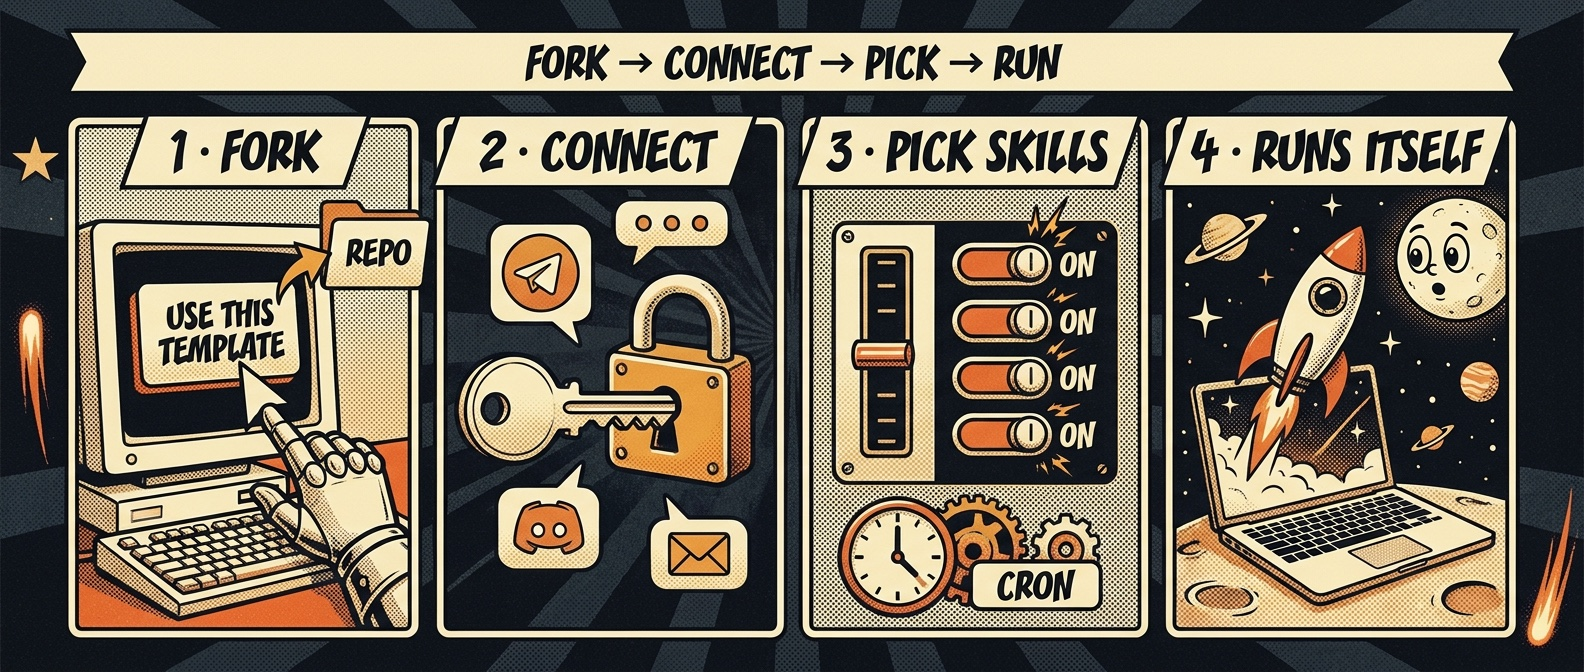
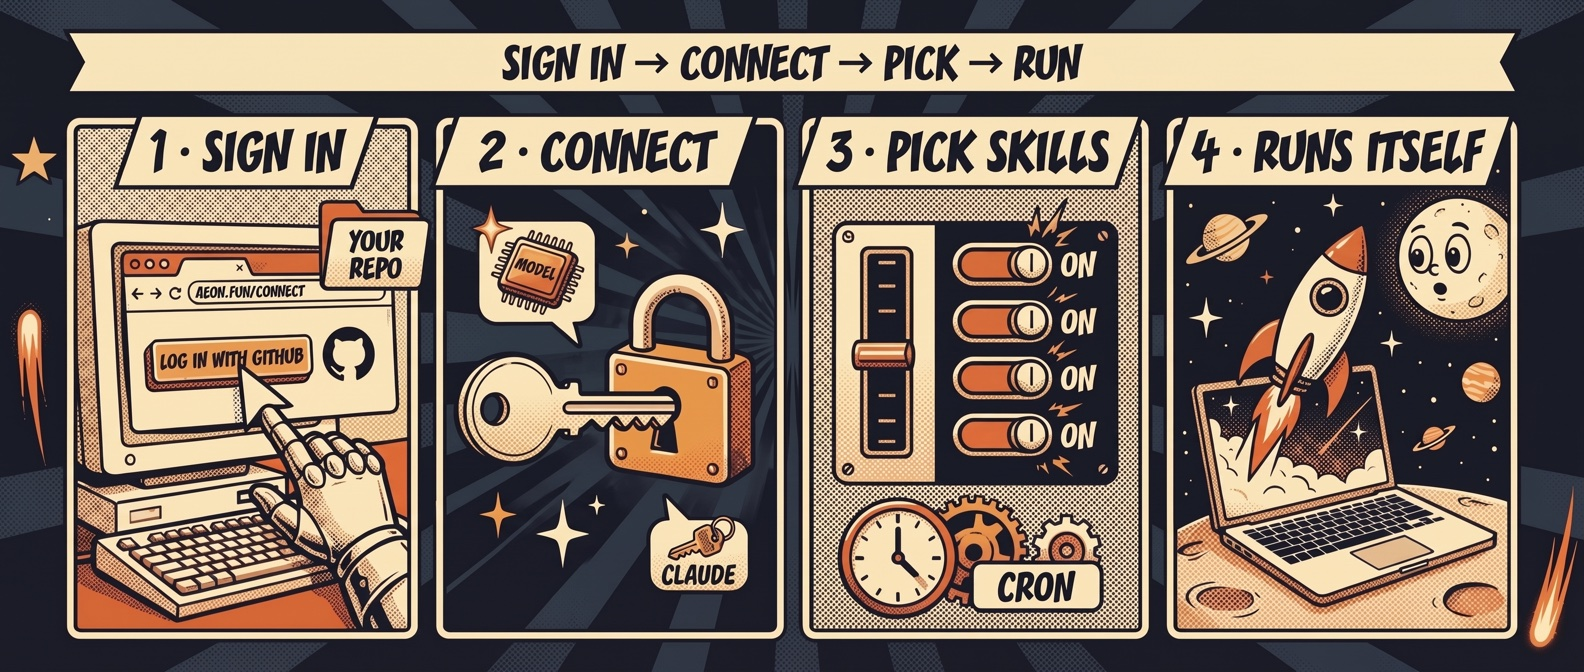
docs: mark as a live instance and point to Aeon Connect (#245)
* docs: mark this repo as a live instance and point to Aeon Connect

- Banner near the top: this is a live Aeon instance; make your own at www.aeon.fun/connect, starting from aeonfun/aeon, not this repo.
- Quick start rewritten to the three paths: browser (Aeon Connect, recommended), coding agent (paste line), terminal (./aeon init against aeonfun/aeon).
- Quickstart image alt text updated to the new four steps (the image itself is replaced separately).
- llms.txt: Site uses www, plus a line for getting your own agent.

* docs: fix stale skill and harness counts

Hero alt text and llms.txt now match aeonfun/aeon: 85 skills across 9 harnesses.

* docs: new quickstart image for the Aeon Connect flow

Sign in, Connect a model, Pick skills, Runs itself.

Changed region(s): [[0.0, 0.0, 1.0, 1.0], [0.9899, 0.2812, 1.0, 0.3125]]

diff --git a/.github/README.md b/.github/README.md
@@ -1,5 +1,5 @@
 <p align="center">
-  <img src="../docs/assets/hero-animated.svg" alt="AEON — the most autonomous agent framework. 60+ skills across 6 harnesses (Claude Code, Grok, Codex, Pi, Vibe, Kimi), running unattended on GitHub Actions: it ships features to your repos, privately discloses real vulnerabilities, deploys live apps, runs deep research, and writes new skills for itself. Keywords: autonomous AI agent, agent framework, GitHub Actions automation, self-improving agent, multi-agent orchestration, LLM skills, cron agent." width="100%" />
+  <img src="../docs/assets/hero-animated.svg" alt="AEON - the most autonomous agent framework. 85 skills across 9 harnesses (Claude Code, Grok, Codex, Pi, Vibe, Kimi, fx, Cursor, Hermes), running unattended on GitHub Actions: it ships features to your repos, privately discloses real vulnerabilities, deploys live apps, runs deep research, and writes new skills for itself. Keywords: autonomous AI agent, agent framework, GitHub Actions automation, self-improving agent, multi-agent orchestration, LLM skills, cron agent." width="100%" />
 </p>
 
 <p align="center">
@@ -15,6 +15,8 @@
   Give it a direction and it ships the work: features, vulnerability disclosures, live apps, deep research - and new skills for itself.<br/><br/>
   <strong>No approval loops. No babysitting. Configure once, forget forever.</strong>
 </p>
+
+> **This is a live Aeon instance**: the growth agent for the Aeon framework, running the aeonfun/aeon repo and $AEON in public. Want your own? **[Run now at www.aeon.fun/connect](https://www.aeon.fun/connect)**, no clone needed. The framework lives at [aeonfun/aeon](https://github.com/aeonfun/aeon); start from there, not from this repo.
 
 > **🤖 Using a coding agent?** Point it here: **read https://www.aeon.fun/skills/aeon.md and follow the instructions to set up your Aeon agent.**
 
@@ -36,24 +38,22 @@
 ## Quick start
 
 <p align="center">
-  <img src="../docs/assets/quickstart-aeon.jpg" alt="Quick start in four steps: 1 Fork - Use this template to get your own repo copy. 2 Connect - add a Telegram, Discord, or email channel. 3 Pick skills - toggle skills on and set their cron schedule. 4 Runs itself - Aeon runs unattended on GitHub Actions." width="100%" />
+  <img src="../docs/assets/quickstart-aeon.jpg" alt="Quick start in four steps: 1 Sign in - sign in with GitHub at www.aeon.fun/connect and create your aeon. 2 Connect a model - paste your Claude subscription token or another key; it is saved as an encrypted secret in your own repo. 3 Pick skills - toggle skills on and set their schedule. 4 Runs itself - Aeon runs unattended on your GitHub Actions." width="100%" />
 </p>
 
-You need **Node.js 20+**, the **[GitHub CLI](https://cli.github.com/) (`gh`)** authenticated (`gh auth login`), and **your own copy** - click **Use this template** on [the repo page](https://github.com/aeonfun/aeon) (keep it public; Actions minutes are free), or `gh repo fork aeonfun/aeon --clone`.
+Make your own agent from the framework repo, [aeonfun/aeon](https://github.com/aeonfun/aeon), not from this instance. Three ways in:
 
-```bash
-git clone https://github.com/<you>/aeon   # skip if you used `gh repo fork --clone`
-cd aeon && ./aeon
-```
+1. **Browser (recommended): [Run now at www.aeon.fun/connect](https://www.aeon.fun/connect).** Sign in with GitHub, create your aeon (a public fork or a private copy of aeonfun/aeon), install the Aeon Connect GitHub App on that one repo, connect a model, pick skills. No clone, no terminal, no Node.
+2. **Coding agent:** paste `read https://www.aeon.fun/skills/aeon.md and follow the instructions to set up your aeon agent` into Claude Code, Codex, Hermes or OpenClaw.
+3. **Terminal:** needs Node.js 20+ and the [GitHub CLI](https://cli.github.com/) (`gh auth login`).
 
-Open [localhost:5555](http://localhost:5555) and follow the dashboard: **Authenticate** (any of six [harnesses](../docs/harnesses.md)) → **add a channel** → **pick skills** → **Run**. That's it - Aeon runs unattended. Everything is also an `./aeon` command ([CLI](../apps/cli/README.md)) or a `/aeon` chat command ([setup skill](../docs/aeon-setup.md), installable as a [Claude Code or Codex plugin](../docs/aeon-setup.md#install)).
+   ```bash
+   git clone https://github.com/aeonfun/aeon && cd aeon && ./aeon init
+   ```
 
-<details>
-<summary><strong>No admin rights / can't install <code>gh</code>?</strong></summary>
+   `./aeon init` creates your own repo from the template and connects GitHub, a model and a channel. `./aeon` opens the same dashboard locally on [localhost:5555](http://localhost:5555).
 
-Grab the `gh_*_macOS_arm64.zip` (or your platform's binary) from [github.com/cli/cli/releases](https://github.com/cli/cli/releases) and drop it on your `PATH` (e.g. `~/.local/bin`). Then `gh auth login`.
-
-</details>
+Full guide: [www.aeon.fun/docs](https://www.aeon.fun/docs).
 
 ---
 
